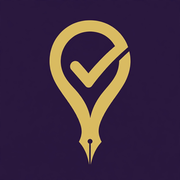
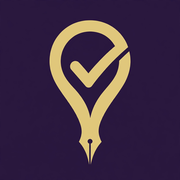
Brand: no deep dark gold
Owner: remove the deep dark gold. Gold is now two light shades only (day
gold #e0c47a and pale gold #f2e6c4):
- The logo mark is recoloured in day gold, the same gold as the UI,
  instead of the deeper #d9b860.
- Light-mode warning text was a dark gold-brown (#7d5300); it is clay
  (#8f4a2f) now.
- A test fails if any daytime token is a deep gold.

Claude-Session: https://claude.ai/code/session_01M5jonG7B326Ty4GJKyZ5gK

Changed region(s): [[0.2778, 0.1111, 0.7222, 0.8889]]

diff --git a/src/lib/design-tokens.test.ts b/src/lib/design-tokens.test.ts
@@ -196,6 +196,13 @@ describe("daytime trim", () => {
   it("the eggplant trim around hero cards shows against the page (≥ 3:1)", () => {
     for (const s of ["bg", "surface"] as const) expect(ratio(light["hero-border"], light[s])).toBeGreaterThanOrEqual(3);
   });
+  it("no deep dark gold: every gold token by day is light (owner's call)", () => {
+    for (const [name, hex] of Object.entries(light)) {
+      const h = hueOf(hex);
+      const l = lum(rgb(hex));
+      if (h !== null && h >= 25 && h <= 55) expect({ name, hex, deep: l < 0.35 }).toEqual({ name, hex, deep: false });
+    }
+  });
   it("the daytime accent is gold, not eggplant", () => {
     const h = hueOf(light.accent);
     expect(h).not.toBeNull();

diff --git a/src/app/globals.css b/src/app/globals.css
@@ -43,7 +43,7 @@
   --focus: #5a3a8a;
   --danger: #b42318;
   --success: #4a3070;
-  --warning: #7d5300;
+  --warning: #8f4a2f; /* clay, not gold: gold stays a fill */
   --primary: #281840;
   --on-primary: #fbfaf1;
   /* Hero card by day: pale gold with an eggplant trim. */
